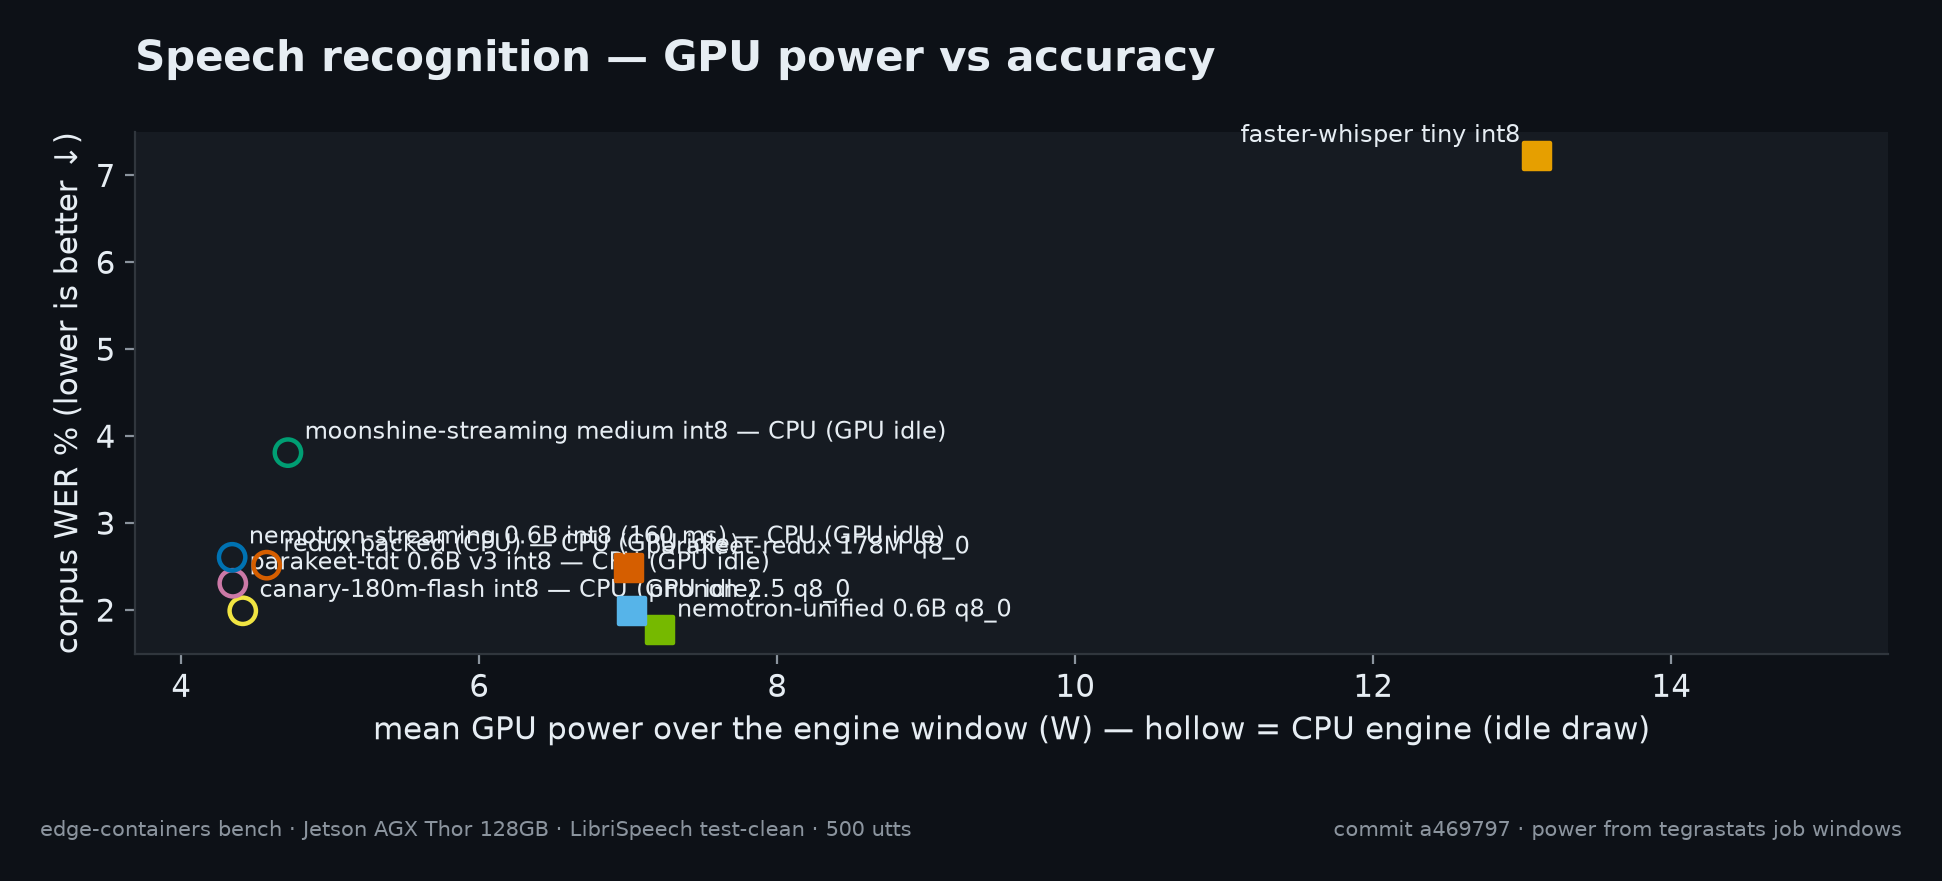
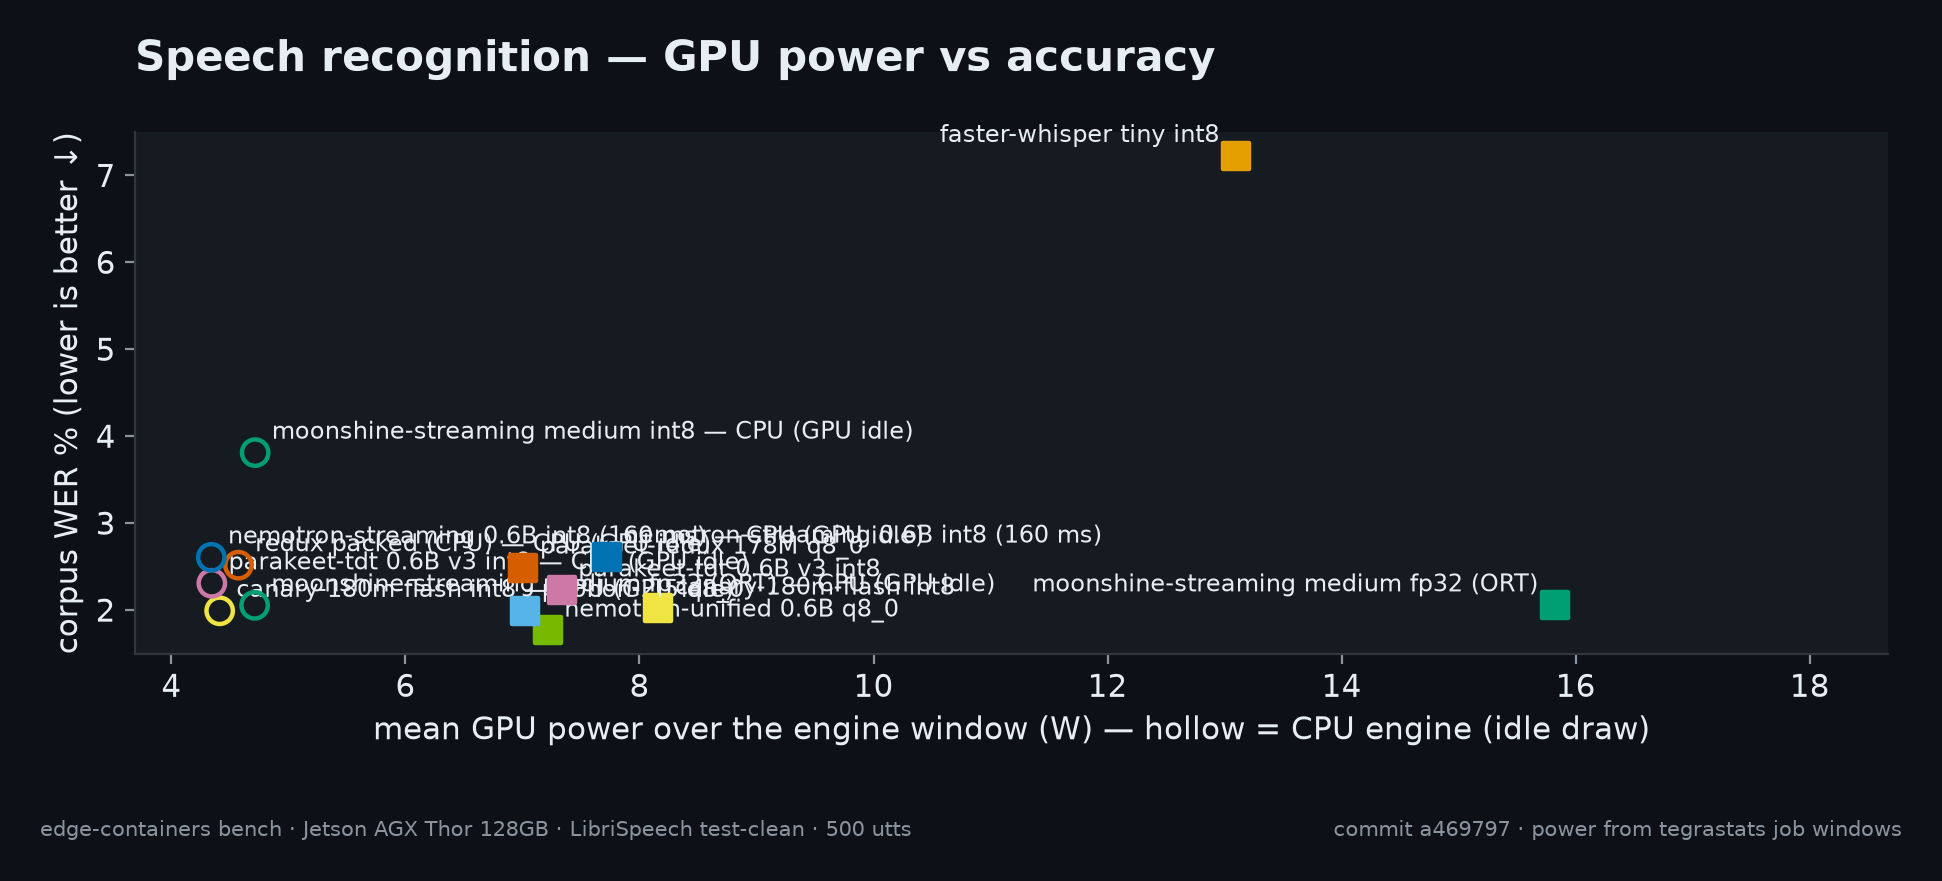
bench: GPU variant rows published — all 6 new configs complete
STT 5x500 (canary_9, parakeet_tdt_10, nemotron_streaming_11,
moonshine_ort_12 cpu + _13 cuda) + TTS 444 (pocket_tts_5 cuda RTF 0.125
vs 0.39 cpu; first attempt failed on a cuda-tensor numpy conversion —
adapter now .cpu()s before asarray).

Headlines: moonshine fp32 on CUDA EP = fastest STT in the repo
(RTF p50 0.038, WER 2.05% identical on both backends — and 1.8pp
BETTER than the official int8 runtime's 3.81%). canary/tdt GPU beat
CPU (0.133/0.090 vs 0.161/0.120); nemotron-streaming GPU slightly
loses to the V3AE CPU (0.808 vs 0.784 — 160ms chunked graph, small
kernels). WER parity GPU-vs-CPU within 0.08pp everywhere.

- select_rows include: comma-separated run_name substrings; plot
  defaults to baseline,gpu_variants
- names.py: fp32 (ORT) display label for the moonshine driver rows
- 11 charts + README regenerated

diff --git a/bench/matrix.py b/bench/matrix.py
@@ -130,9 +130,10 @@ def cohort_of(row: dict) -> tuple:
 def select_rows(bench_root: Path, include: str = "baseline") -> list[dict]:
     """Latest complete row per (cohort, engine_id) from history.
 
-    ``include`` is a substring filter on run_name ("baseline" by default;
-    "" / "all" selects everything). Completeness = n_ok equals the manifest
-    line count (the frozen subset is the truth, not dataset.n).
+    ``include`` filters on run_name: comma-separated substrings, any of
+    which match ("baseline" by default; "" / "all" selects everything).
+    Completeness = n_ok equals the manifest line count (the frozen subset
+    is the truth, not dataset.n).
     """
     rows = []
     seen: set[tuple] = set()
@@ -152,8 +153,10 @@ def select_rows(bench_root: Path, include: str = "baseline") -> list[dict]:
 
     for r in sorted(read_history(bench_root), key=lambda x: x.get("epoch", 0)):
         run_name = r.get("run_name", "")
-        if include and include not in ("all", "") and include not in run_name:
-            continue
+        if include and include not in ("all", ""):
+            pats = [s.strip() for s in include.split(",") if s.strip()]
+            if pats and not any(p in run_name for p in pats):
+                continue
         n_expected = expected(r.get("manifest", ""))
         m = r.get("metrics") or {}
         if n_expected and m.get("n_ok") != n_expected:

diff --git a/bench/names.py b/bench/names.py
@@ -57,6 +57,7 @@ MODEL_COLORS = {
     "faster-whisper tiny int8": "#E69F00",  # Okabe-Ito orange
     # new STT (2026-11) — hues unused within the STT chart set
     "moonshine-streaming medium int8": "#009E73",  # Okabe-Ito green
+    "moonshine-streaming medium fp32 (ORT)": "#009E73",  # same family, GPU driver
     "canary-180m-flash int8": "#F0E442",  # Okabe-Ito yellow (canary!)
     "parakeet-tdt 0.6B v3 int8": "#CC79A7",  # Okabe-Ito pink
     "nemotron-streaming 0.6B int8 (160 ms)": "#0072B2",  # Okabe-Ito blue
@@ -202,6 +203,8 @@ def display(row: dict) -> str:
     if proj == "wyoming-piper1-tts":
         return "piper1-tts libritts-r medium"
     if proj == "moonshine-streaming-stt":
+        if str(row.get("engine_id") or "").startswith("moonshine_ort"):
+            return "moonshine-streaming medium fp32 (ORT)"
         return "moonshine-streaming medium int8"
     if proj == "canary-flash-stt":
         return "canary-180m-flash int8"

diff --git a/bench/cli.py b/bench/cli.py
@@ -145,12 +145,13 @@ def drop_caches():
 
 
 @app.command()
-def plot(readme: bool = True, include: str = "baseline"):
+def plot(readme: bool = True, include: str = "baseline,gpu_variants"):
     """Render all charts (+ README.md with --readme) from benchmarks/history.jsonl.
 
-    Charts render dark-theme 2x PNGs into
-    assets/benchmarks/ with a manifest; the README is rendered from
-    README.md.j2 (StrictUndefined). Never re-runs inference.
+    ``include``: comma-separated run_name substrings — the published matrix
+    covers the baseline cohorts plus focused variant runs. Charts render
+    dark-theme 2x PNGs into assets/benchmarks/ with a manifest; the README
+    is rendered from README.md.j2 (StrictUndefined). Never re-runs inference.
     """
     from . import charts
     from . import readme as _readme

diff --git a/bench/engines/client.py b/bench/engines/client.py
@@ -700,6 +700,10 @@ class PocketTts:
         import numpy as np
 
         audio = self._m.generate_audio(self._voice_state, text)
+        # GPU: generate_audio returns a tensor on the model's device —
+        # pull it to host before numpy (cuda:0 tensors can't convert).
+        if self.device != "cpu":
+            audio = audio.cpu()
         _sync_cuda()
         return np.asarray(audio), self._m.sample_rate
 

diff --git a/README.md b/README.md
@@ -29,11 +29,11 @@
 
 | Package | Image (`narandill/<name>`) | Family | What it is | Streaming |
 |---|---|---|---|---|
-| [`canary-flash-stt`](packages/stt/canary-flash-stt/) | `canary-flash-stt:0.1.0` | 🐤 canary | NVIDIA Canary-180M-Flash int8 (en/de/es/fr + X↔EN) via sherpa-onnx | VAD-chunked (opt-in) |
+| [`canary-flash-stt`](packages/stt/canary-flash-stt/) | `canary-flash-stt:0.2.0` | 🐤 canary | NVIDIA Canary-180M-Flash int8 (en/de/es/fr + X↔EN) via sherpa-onnx | VAD-chunked (opt-in) |
 | [`wyoming-faster-whisper`](packages/stt/wyoming-faster-whisper/) | `wyoming-faster-whisper:0.1.0` | ⚡ faster-whisper | faster-whisper 1.2.1 on our CTranslate2 4.8.4 (sm_87+sm_110) | wyoming streaming |
-| [`moonshine-streaming-stt`](packages/stt/moonshine-streaming-stt/) | `moonshine-streaming-stt:0.1.0` | 🌙 moonshine | Moonshine Streaming Medium 245M via moonshine-voice (official ORT runtime) | **native incremental** (live partials) |
-| [`nemotron-streaming-stt`](packages/stt/nemotron-streaming-stt/) | `nemotron-streaming-stt:0.1.0` | 🔊 nemotron-streaming | NVIDIA Nemotron Speech Streaming EN 0.6B int8 (160 ms lookahead) via sherpa-onnx | **true native** (cache-aware, graph-chunked) |
-| [`parakeet-tdt-stt`](packages/stt/parakeet-tdt-stt/) | `parakeet-tdt-stt:0.1.0` | 🦜 parakeet-tdt | NVIDIA Parakeet TDT 0.6B v3 int8 (25 languages) via sherpa-onnx | VAD-chunked (opt-in) |
+| [`moonshine-streaming-stt`](packages/stt/moonshine-streaming-stt/) | `moonshine-streaming-stt:0.2.0` | 🌙 moonshine | Moonshine Streaming Medium 245M via moonshine-voice (official ORT runtime) | **native incremental** (live partials) |
+| [`nemotron-streaming-stt`](packages/stt/nemotron-streaming-stt/) | `nemotron-streaming-stt:0.2.0` | 🔊 nemotron-streaming | NVIDIA Nemotron Speech Streaming EN 0.6B int8 (160 ms lookahead) via sherpa-onnx | **true native** (cache-aware, graph-chunked) |
+| [`parakeet-tdt-stt`](packages/stt/parakeet-tdt-stt/) | `parakeet-tdt-stt:0.2.0` | 🦜 parakeet-tdt | NVIDIA Parakeet TDT 0.6B v3 int8 (25 languages) via sherpa-onnx | VAD-chunked (opt-in) |
 | [`nemotron-unified-asr`](packages/stt/nemotron-unified-asr/) | `nemotron-unified-asr:0.1.0` | 🦜 parakeet.cpp | nvidia nemotron-unified-asr 0.6B (q8_0) on parakeet.cpp | **true buffered** (0.16–2.08 s) |
 | [`parakeet-redux-stt`](packages/stt/parakeet-redux-stt/) | `parakeet-redux-stt:0.1.0` | 🦜 parakeet.cpp | moondream parakeet-redux 178M (q8_0) GPU + packed CPU | VAD-chunked (opt-in) |
 | [`phonon2-stt`](packages/stt/phonon2-stt/) | `phonon2-stt:0.1.0` | 🦜 parakeet.cpp | fermion phonon-2.5 (q8_0) GPU + packed CPU | VAD-chunked (opt-in) |
@@ -46,7 +46,7 @@
 | [`paradee-tts`](packages/tts/paradee-tts/) | `paradee-tts:0.2.0` | ✨ paradee | Paradee-8M v1.2 int8 ONNX — a Kokoro distillation (4 voices) | sentence-chunked |
 | [`phonon31m-tts`](packages/tts/phonon31m-tts/) | `phonon31m-tts:0.1.0` | 🌊 phonon-31m | gradium/phonon-31m-en via `ptts` — **CPU-only by design** (307 MB) | **true streaming** (TTFA ~76 ms p95) |
 | [`wyoming-piper1-tts`](packages/tts/wyoming-piper1-tts/) | `wyoming-piper1-tts:0.1.0` | 🎺 piper1-tts | piper-tts 1.8.0 on our onnxruntime-gpu 1.31.1 | wyoming streaming |
-| [`pocket-tts`](packages/tts/pocket-tts/) | `pocket-tts:0.1.0` | 🎒 pocket-tts | Kyutai Pocket TTS 100M (official pkg) — streaming + voice cloning, 7 languages | **true streaming** (~200 ms TTFA) |
+| [`pocket-tts`](packages/tts/pocket-tts/) | `pocket-tts:0.2.0` | 🎒 pocket-tts | Kyutai Pocket TTS 100M (official pkg) — streaming + voice cloning, 7 languages | **true streaming** (~200 ms TTFA) |
 
 ## Supported Hardware
 
@@ -84,14 +84,19 @@ disk); **anon MiB** is true process memory.
 | 🥇 nemotron-unified-asr | nemotron-unified 0.6B q8_0 | cuda | $\color{#3fb950}{\text{0.0177}}$ | $\color{#3fb950}{\text{0.0047}}$ | $\color{#3fb950}{\text{0.2240}}$ | $\color{#3fb950}{\text{0.0000}}$ | 0.1126 | 0.2469 | 0.7162 | 0.8270 | 2,179 | 1,030 | 7 |
 | 🥈 canary-flash-stt | canary-180m-flash int8 | cpu | 0.0199 | 0.0055 | 0.2460 | $\color{#3fb950}{\text{0.0000}}$ | 0.1610 | 0.2283 | 0.9770 | 3.8869 | 777 | 766 | — (CPU) |
 | 🥉 phonon2-stt | phonon-2.5 q8_0 | cuda | 0.0199 | 0.0061 | 0.2620 | $\color{#3fb950}{\text{0.0000}}$ | 0.1093 | 0.2421 | 0.6962 | 0.8076 | 2,188 | 1,031 | 7 |
+| canary-flash-stt | canary-180m-flash int8 | cuda | 0.0202 | 0.0054 | 0.2440 | $\color{#3fb950}{\text{0.0000}}$ | 0.1330 | 0.1842 | 0.8078 | 3.1153 | 1,347 | 1,101 | 8 |
+| moonshine-streaming-stt | moonshine-streaming medium fp32 (ORT) | cpu | 0.0205 | 0.0080 | 0.2440 | $\color{#3fb950}{\text{0.0000}}$ | 0.1080 | 0.1335 | 0.6567 | 1.8402 | 2,358 | 2,334 | — (CPU) |
+| moonshine-streaming-stt | moonshine-streaming medium fp32 (ORT) | cuda | 0.0205 | 0.0080 | 0.2440 | $\color{#3fb950}{\text{0.0000}}$ | 0.0376 | 0.0453 | 0.2381 | 0.6336 | 1,703 | 1,647 | 16 |
+| parakeet-tdt-stt | parakeet-tdt 0.6B v3 int8 | cuda | 0.0223 | 0.0076 | 0.2940 | $\color{#3fb950}{\text{0.0000}}$ | 0.0897 | 0.1049 | 0.5698 | 1.3966 | 1,983 | 1,735 | 7 |
 | parakeet-tdt-stt | parakeet-tdt 0.6B v3 int8 | cpu | 0.0231 | 0.0079 | 0.3080 | $\color{#3fb950}{\text{0.0000}}$ | 0.1196 | 0.1298 | 0.7368 | 2.0574 | 1,313 | 1,300 | — (CPU) |
 | parakeet-redux-stt | parakeet-redux 178M q8_0 | cuda | 0.0249 | 0.0083 | 0.3200 | $\color{#3fb950}{\text{0.0000}}$ | 0.1108 | 0.2426 | 0.7019 | 0.8066 | 2,194 | 1,031 | 7 |
 | parakeet-redux-stt | redux packed (CPU) | cpu | 0.0252 | 0.0083 | 0.3200 | $\color{#3fb950}{\text{0.0000}}$ | 0.0743 | 0.1239 | 0.4879 | 0.9450 | 1,107 | 730 | — (CPU) |
-| nemotron-streaming-stt | nemotron-streaming 0.6B int8 (160 ms) | cpu | 0.0261 | 0.0085 | 0.3120 | $\color{#3fb950}{\text{0.0000}}$ | $\color{#f85149}{\text{0.7844}}$ | $\color{#f85149}{\text{0.7971}}$ | $\color{#f85149}{\text{4.9934}}$ | $\color{#f85149}{\text{13.5}}$ | 1,364 | 1,344 | — (CPU) |
+| nemotron-streaming-stt | nemotron-streaming 0.6B int8 (160 ms) | cpu | 0.0261 | 0.0085 | 0.3120 | $\color{#3fb950}{\text{0.0000}}$ | 0.7844 | 0.7971 | 4.9934 | 13.5 | 1,364 | 1,344 | — (CPU) |
+| nemotron-streaming-stt | nemotron-streaming 0.6B int8 (160 ms) | cuda | 0.0262 | 0.0085 | 0.3080 | $\color{#3fb950}{\text{0.0000}}$ | $\color{#f85149}{\text{0.8077}}$ | $\color{#f85149}{\text{0.8219}}$ | $\color{#f85149}{\text{5.1436}}$ | $\color{#f85149}{\text{13.9}}$ | 1,868 | 1,800 | 8 |
 | moonshine-streaming-stt | moonshine-streaming medium int8 | cpu | 0.0381 | 0.0210 | 0.4720 | $\color{#3fb950}{\text{0.0000}}$ | 0.1707 | 0.2672 | 1.1922 | 3.0605 | 657 | 643 | — (CPU) |
 | wyoming-faster-whisper | faster-whisper tiny int8 | cuda | $\color{#f85149}{\text{0.0722}}$ | $\color{#f85149}{\text{0.0280}}$ | $\color{#f85149}{\text{0.5940}}$ | $\color{#f85149}{\text{0.0020}}$ | $\color{#3fb950}{\text{0.0130}}$ | $\color{#3fb950}{\text{0.0192}}$ | $\color{#3fb950}{\text{0.0859}}$ | $\color{#3fb950}{\text{0.1511}}$ | 616 | 562 | 13 |
 
-> *500 utterances · 9 configurations · 🥇 **nemotron-unified 0.6B q8_0** at **1.77% WER**
+> *500 utterances · 14 configurations · 🥇 **nemotron-unified 0.6B q8_0** at **1.77% WER**
 (🥇🥈🥉 = composite top 3); fastest RTF p50
 **0.013**. Green = best in column, red = worst. GPU W is the
 tegrastats module draw over each engine's window; the packed-CPU engine has none
@@ -133,8 +138,9 @@ tegrastats module draw over each engine's window; the packed-CPU engine has none
 | paradee-tts | paradee 8M int8 (GPU) | cuda | $\color{#3fb950}{\text{0.0110}}$ | $\color{#3fb950}{\text{0.0276}}$ | $\color{#3fb950}{\text{0.0863}}$ | $\color{#3fb950}{\text{0.1391}}$ | 0.0863 | 0.1391 | 1,462 | 1,388 | 14 |
 | wyoming-piper1-tts | piper1-tts libritts-r medium | cuda | 0.0363 | 0.1046 | 0.1684 | 0.1839 | 0.1684 | 0.1839 | 1,158 | 1,100 | 11 |
 | phonon31m-tts | phonon-31m (CPU) | cpu | 0.1384 | 0.1502 | 0.8234 | 2.4125 | $\color{#3fb950}{\text{0.0845}}$ | $\color{#3fb950}{\text{0.1169}}$ | 526 | 508 | — (CPU) |
+| pocket-tts | pocket-tts 100M | cuda | 0.1248 | 0.1423 | 0.8164 | 13.0 | 0.8164 | 13.0 | 1,629 | 1,520 | 16 |
 
-> *444 sentences · 6 configurations · 🥇🥈🥉 = composite top 3 · fastest RTF p50
+> *444 sentences · 7 configurations · 🥇🥈🥉 = composite top 3 · fastest RTF p50
 **0.011**; best TTFA p50 **84 ms**
 (300 ms gate). TTFA = time to first audio: streaming engines report the first
 chunk; single-chunk engines (paradee, piper1-tts) deliver at synthesis completion, so
